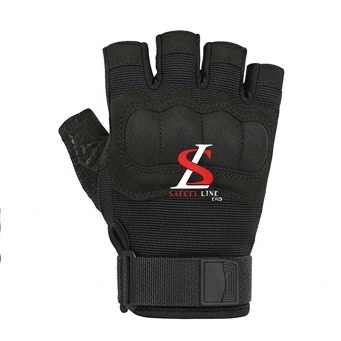
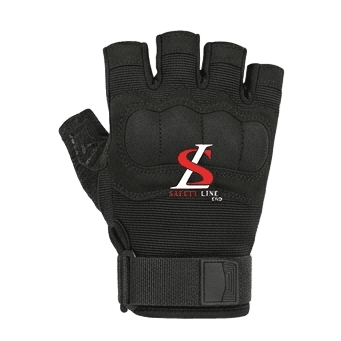
refactor: update product imagery assets

diff --git a/src/components/GearwearWindowPage.tsx b/src/components/GearwearWindowPage.tsx
@@ -40,21 +40,21 @@ import cg5SlideImg from '../assets/images/cg5_slide.png';
 // Cycling Gloves Assets
 import cy1Img from '../assets/images/cycling_glove_safetyline_1.png';
 import cy2Img from '../assets/images/cycling_glove_safetyline_2.png';
-import cy3Img from '../assets/images/cycling_glove_safetyline_3.jpeg';
-import cy4Img from '../assets/images/cycling_glove_safetyline_4.jpeg';
+import cy3Img from '../assets/images/cycling_glove_safetyline_3.png';
+import cy4Img from '../assets/images/cycling_glove_safetyline_4.png';
 import cy5Img from '../assets/images/cycling_glove_safetyline_5.png';
 import cy6Img from '../assets/images/cycling_glove_safetyline_6.png';
-import cy9Img from '../assets/images/cycling_glove_safetyline_9.jpeg';
+import cy9Img from '../assets/images/cycling_glove_safetyline_9.png';
 
 // Golf Gloves Assets
-import gg1Img from '../assets/images/golf_glove_1.jpeg';
-import gg2Img from '../assets/images/golf_glove_2.jpeg';
-import gg3Img from '../assets/images/golf_glove_3.jpeg';
-import gg4Img from '../assets/images/golf_glove_4.jpeg';
-import gg5Img from '../assets/images/golf_glove_5.jpeg';
-import gg6Img from '../assets/images/golf_glove_6.jpeg';
-import gg7Img from '../assets/images/golf_glove_7.jpeg';
-import gg8Img from '../assets/images/golf_glove_8.jpeg';
+import gg1Img from '../assets/images/golf_glove_1.png';
+import gg2Img from '../assets/images/golf_glove_2.png';
+import gg3Img from '../assets/images/golf_glove_3.png';
+import gg4Img from '../assets/images/golf_glove_4.png';
+import gg5Img from '../assets/images/golf_glove_5.png';
+import gg6Img from '../assets/images/golf_glove_6.png';
+import gg7Img from '../assets/images/golf_glove_7.png';
+import gg8Img from '../assets/images/golf_glove_8.png';
 
 interface GearwearWindowPageProps {
   window: GearwearWindow;
@@ -613,7 +613,6 @@ export const GearwearWindowPage: React.FC<GearwearWindowPageProps> = ({
               <img
                 src={prevGlove.slideImage}
                 alt=""
-                style={{ mixBlendMode: 'multiply' }}
                 className="w-full h-full object-contain filter drop-shadow-[0_10px_20px_rgba(15,23,42,0.12)]"
               />
             </div>
@@ -670,7 +669,6 @@ export const GearwearWindowPage: React.FC<GearwearWindowPageProps> = ({
                   <img
                     src={activeGlove.slideImage}
                     alt=""
-                    style={{ mixBlendMode: 'multiply' }}
                     className="w-full h-full object-contain filter drop-shadow-[0_18px_30px_rgba(15,23,42,0.16)] drop-shadow-[0_5px_10px_rgba(15,23,42,0.08)] transition-transform duration-500 hover:scale-[1.04]"
                   />
                 </motion.div>
@@ -687,7 +685,6 @@ export const GearwearWindowPage: React.FC<GearwearWindowPageProps> = ({
               <img
                 src={nextGlove.slideImage}
                 alt=""
-                style={{ mixBlendMode: 'multiply' }}
                 className="w-full h-full object-contain filter drop-shadow-[0_10px_20px_rgba(15,23,42,0.12)]"
               />
             </div>
@@ -939,7 +936,6 @@ export const GearwearWindowPage: React.FC<GearwearWindowPageProps> = ({
                           alt={product.name}
                           priority={idx < 4}
                           fallbackText={product.productCode}
-                          style={{ mixBlendMode: 'multiply' }}
                           containerClassName="w-full h-full flex items-center justify-center"
                           className="w-full h-full object-contain filter drop-shadow-[0_12px_20px_rgba(0,0,0,0.18)] transition-transform duration-500 ease-out group-hover:scale-108"
                         />
@@ -1083,7 +1079,6 @@ export const GearwearWindowPage: React.FC<GearwearWindowPageProps> = ({
                             alt={product.name}
                             priority={idx < 4}
                             fallbackText={product.productCode}
-                            style={{ mixBlendMode: 'multiply' }}
                             containerClassName="w-full h-full flex items-center justify-center"
                             className="w-full h-full object-contain filter drop-shadow-[0_12px_20px_rgba(0,0,0,0.18)] transition-transform duration-500 ease-out group-hover:scale-108"
                           />
@@ -1341,7 +1336,6 @@ export const GearwearWindowPage: React.FC<GearwearWindowPageProps> = ({
                     <img
                       src={inspectGlove.image}
                       alt={inspectGlove.name}
-                      style={{ mixBlendMode: 'multiply' }}
                       className="w-full h-full object-contain filter drop-shadow-[0_15px_25px_rgba(0,0,0,0.18)]"
                     />
                   </div>

diff --git a/src/data/gearwearProducts.ts b/src/data/gearwearProducts.ts
@@ -18,21 +18,21 @@ import cg5Img from '../assets/images/cg5.png';
 // Cycling Gloves Assets
 import cy1Img from '../assets/images/cycling_glove_safetyline_1.png';
 import cy2Img from '../assets/images/cycling_glove_safetyline_2.png';
-import cy3Img from '../assets/images/cycling_glove_safetyline_3.jpeg';
-import cy4Img from '../assets/images/cycling_glove_safetyline_4.jpeg';
+import cy3Img from '../assets/images/cycling_glove_safetyline_3.png';
+import cy4Img from '../assets/images/cycling_glove_safetyline_4.png';
 import cy5Img from '../assets/images/cycling_glove_safetyline_5.png';
 import cy6Img from '../assets/images/cycling_glove_safetyline_6.png';
-import cy9Img from '../assets/images/cycling_glove_safetyline_9.jpeg';
+import cy9Img from '../assets/images/cycling_glove_safetyline_9.png';
 
 // Golf Gloves Assets
-import gg1Img from '../assets/images/golf_glove_1.jpeg';
-import gg2Img from '../assets/images/golf_glove_2.jpeg';
-import gg3Img from '../assets/images/golf_glove_3.jpeg';
-import gg4Img from '../assets/images/golf_glove_4.jpeg';
-import gg5Img from '../assets/images/golf_glove_5.jpeg';
-import gg6Img from '../assets/images/golf_glove_6.jpeg';
-import gg7Img from '../assets/images/golf_glove_7.jpeg';
-import gg8Img from '../assets/images/golf_glove_8.jpeg';
+import gg1Img from '../assets/images/golf_glove_1.png';
+import gg2Img from '../assets/images/golf_glove_2.png';
+import gg3Img from '../assets/images/golf_glove_3.png';
+import gg4Img from '../assets/images/golf_glove_4.png';
+import gg5Img from '../assets/images/golf_glove_5.png';
+import gg6Img from '../assets/images/golf_glove_6.png';
+import gg7Img from '../assets/images/golf_glove_7.png';
+import gg8Img from '../assets/images/golf_glove_8.png';
 
 export const gearwearProducts: Product[] = [
   // 1. Tactical Gloves Category

diff --git a/src/data/gearwearWindows.ts b/src/data/gearwearWindows.ts
@@ -1,11 +1,11 @@
-import golfGlovesImg from '../assets/images/golf_glove_1.jpeg';
+import golfGlovesImg from '../assets/images/golf_glove_1.png';
 import fishGlovesImg from '../assets/images/blank_fish_glove_1792247591287.jpg';
 import workGlovesImg from '../assets/images/blank_mechanic_glove_1792247541453.jpg';
 import mechanicsGlovesImg from '../assets/images/blank_mechanic_glove_1792247541453.jpg';
 import tacticalPoliceGlovesImg from '../assets/images/blank_police_glove_1792247591145.jpg';
 import motorcarsGlovesImg from '../assets/images/blank_racing_glove_1792247541163.jpg';
 import cg1Img from '../assets/images/cg1.png';
-import cyclingGlovesImg from '../assets/images/blank_cycling_glove_1792247541304.jpg';
+import cyclingGlovesImg from '../assets/images/cycling_glove_safetyline_1.png';
 import roadCyclingImg from '../assets/images/blank_road_cycling_1792247567857.jpg';
 import weightLiftingImg from '../assets/images/blank_weight_lifting_1792247542179.jpg';
 import tacticalGlovesImg from '../assets/images/blank_tactical_glove_1792247540904.jpg';
